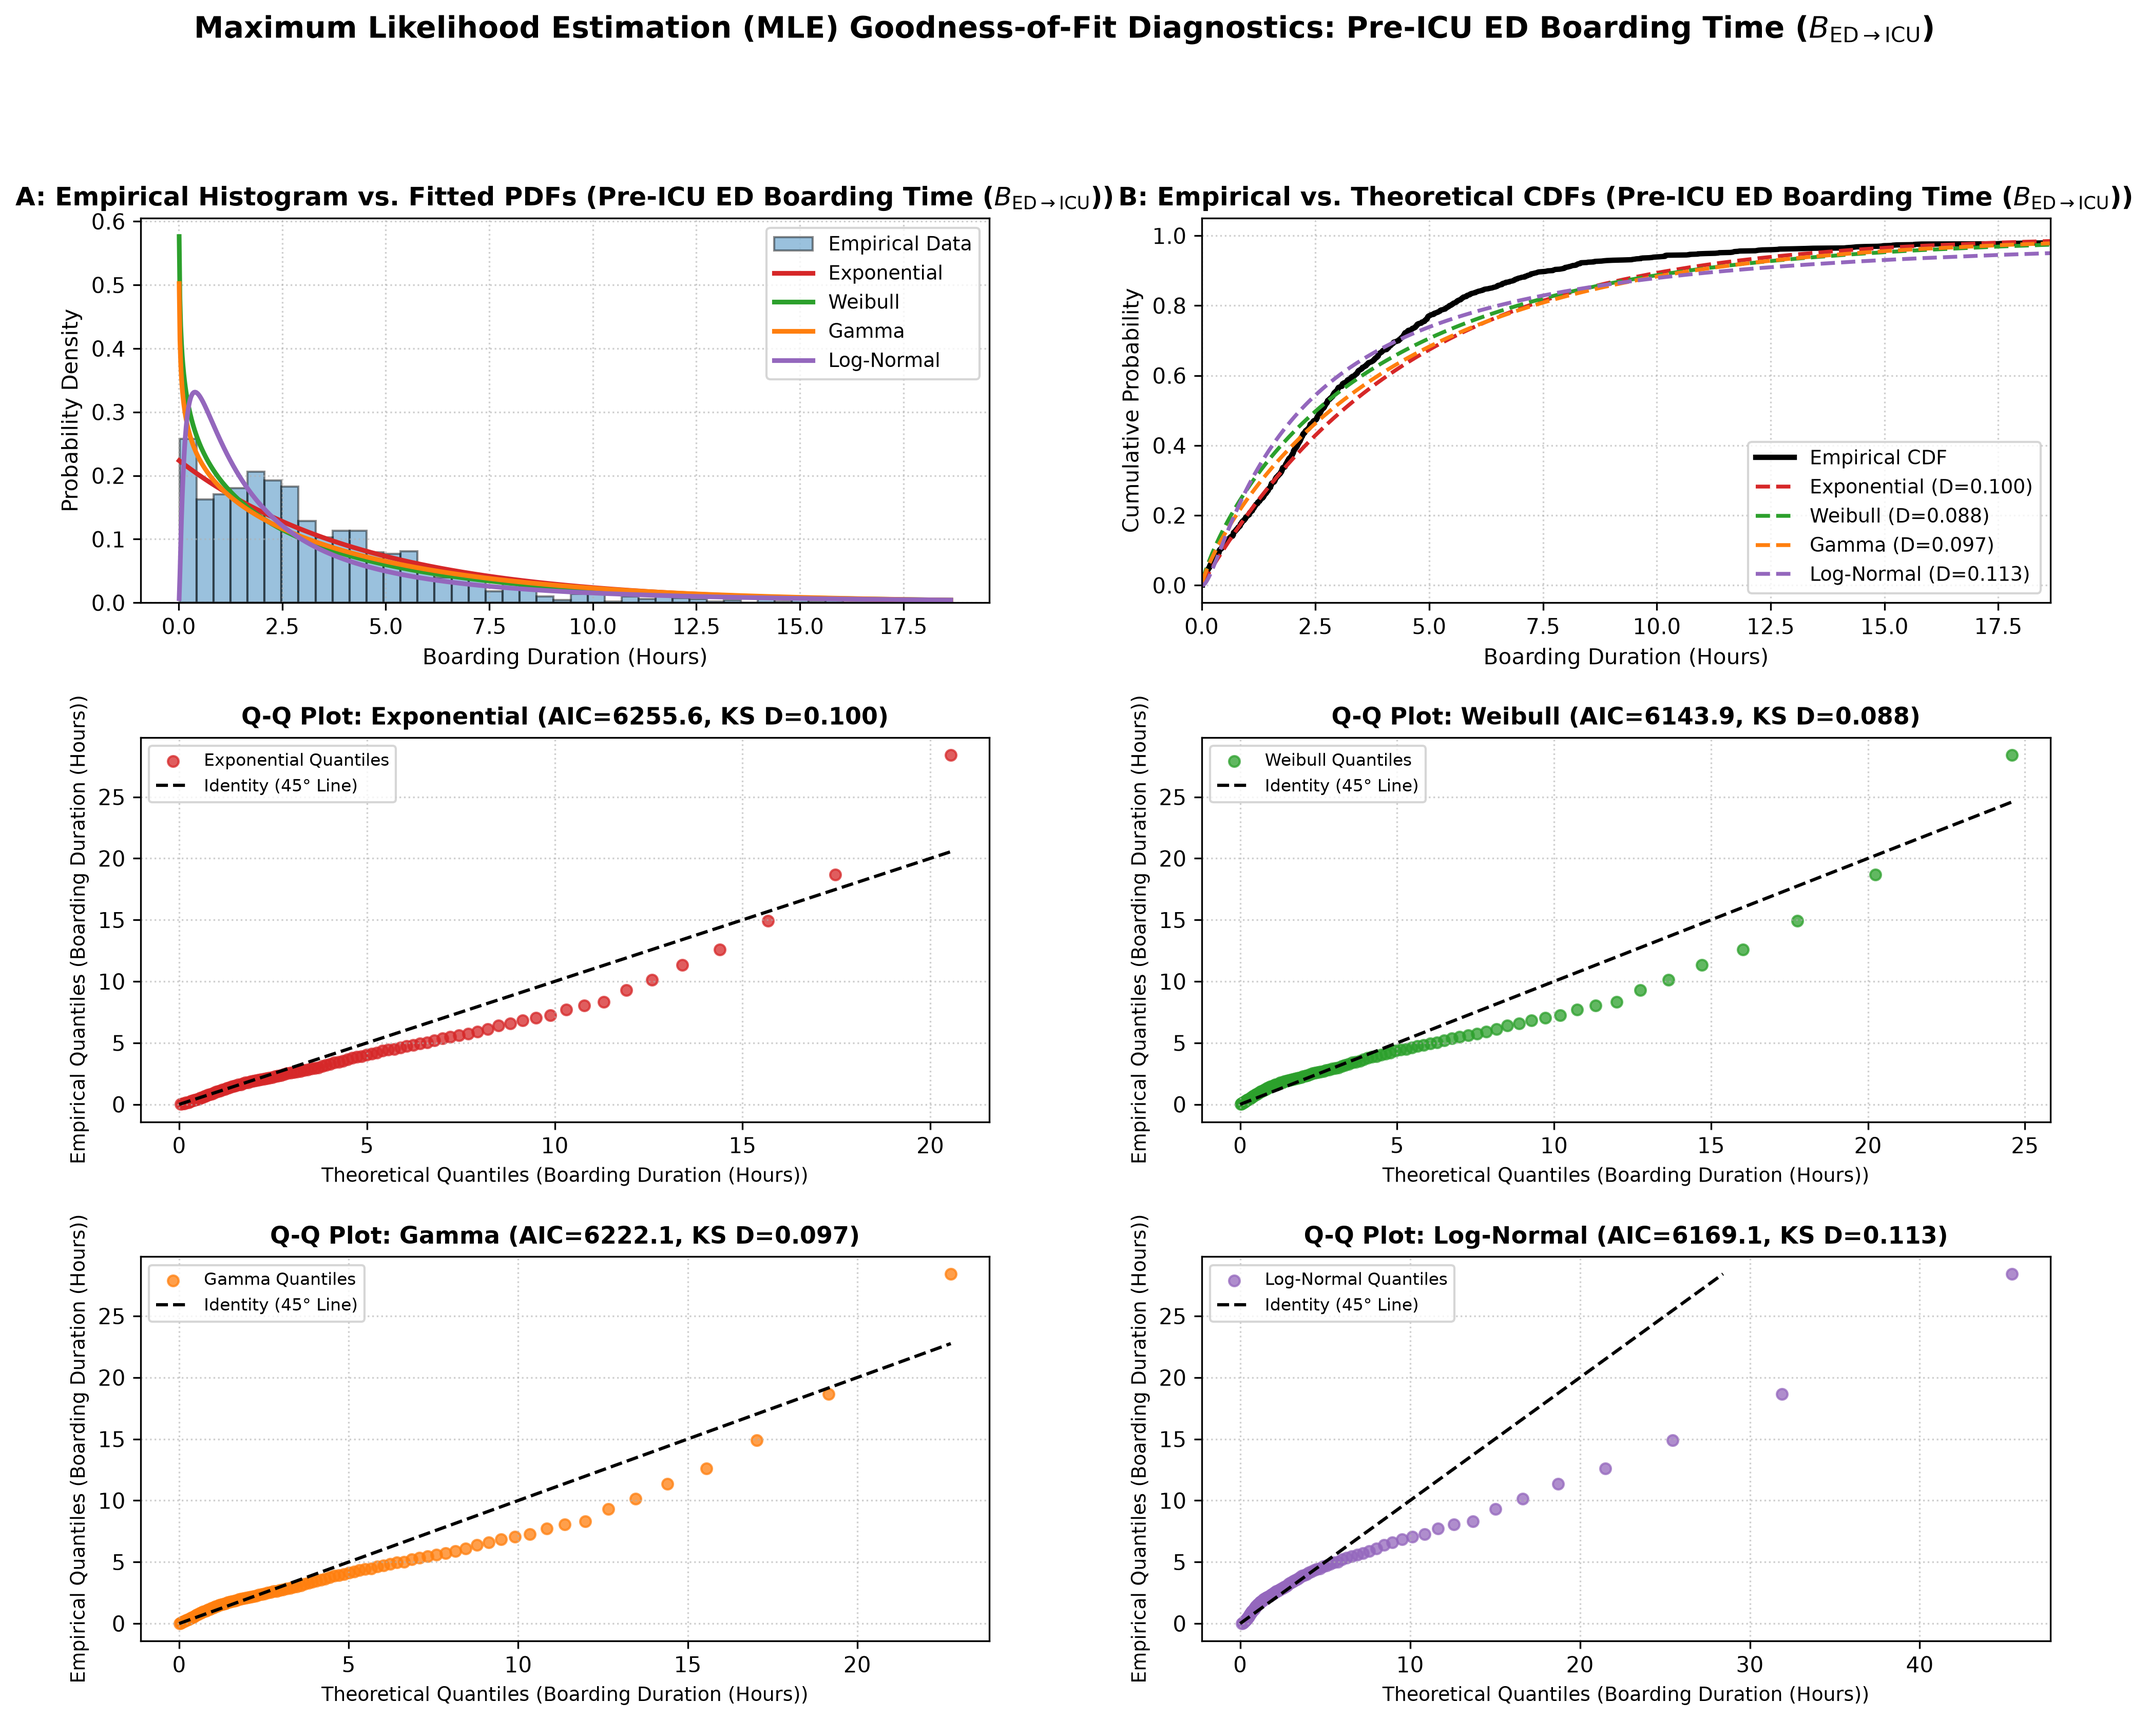
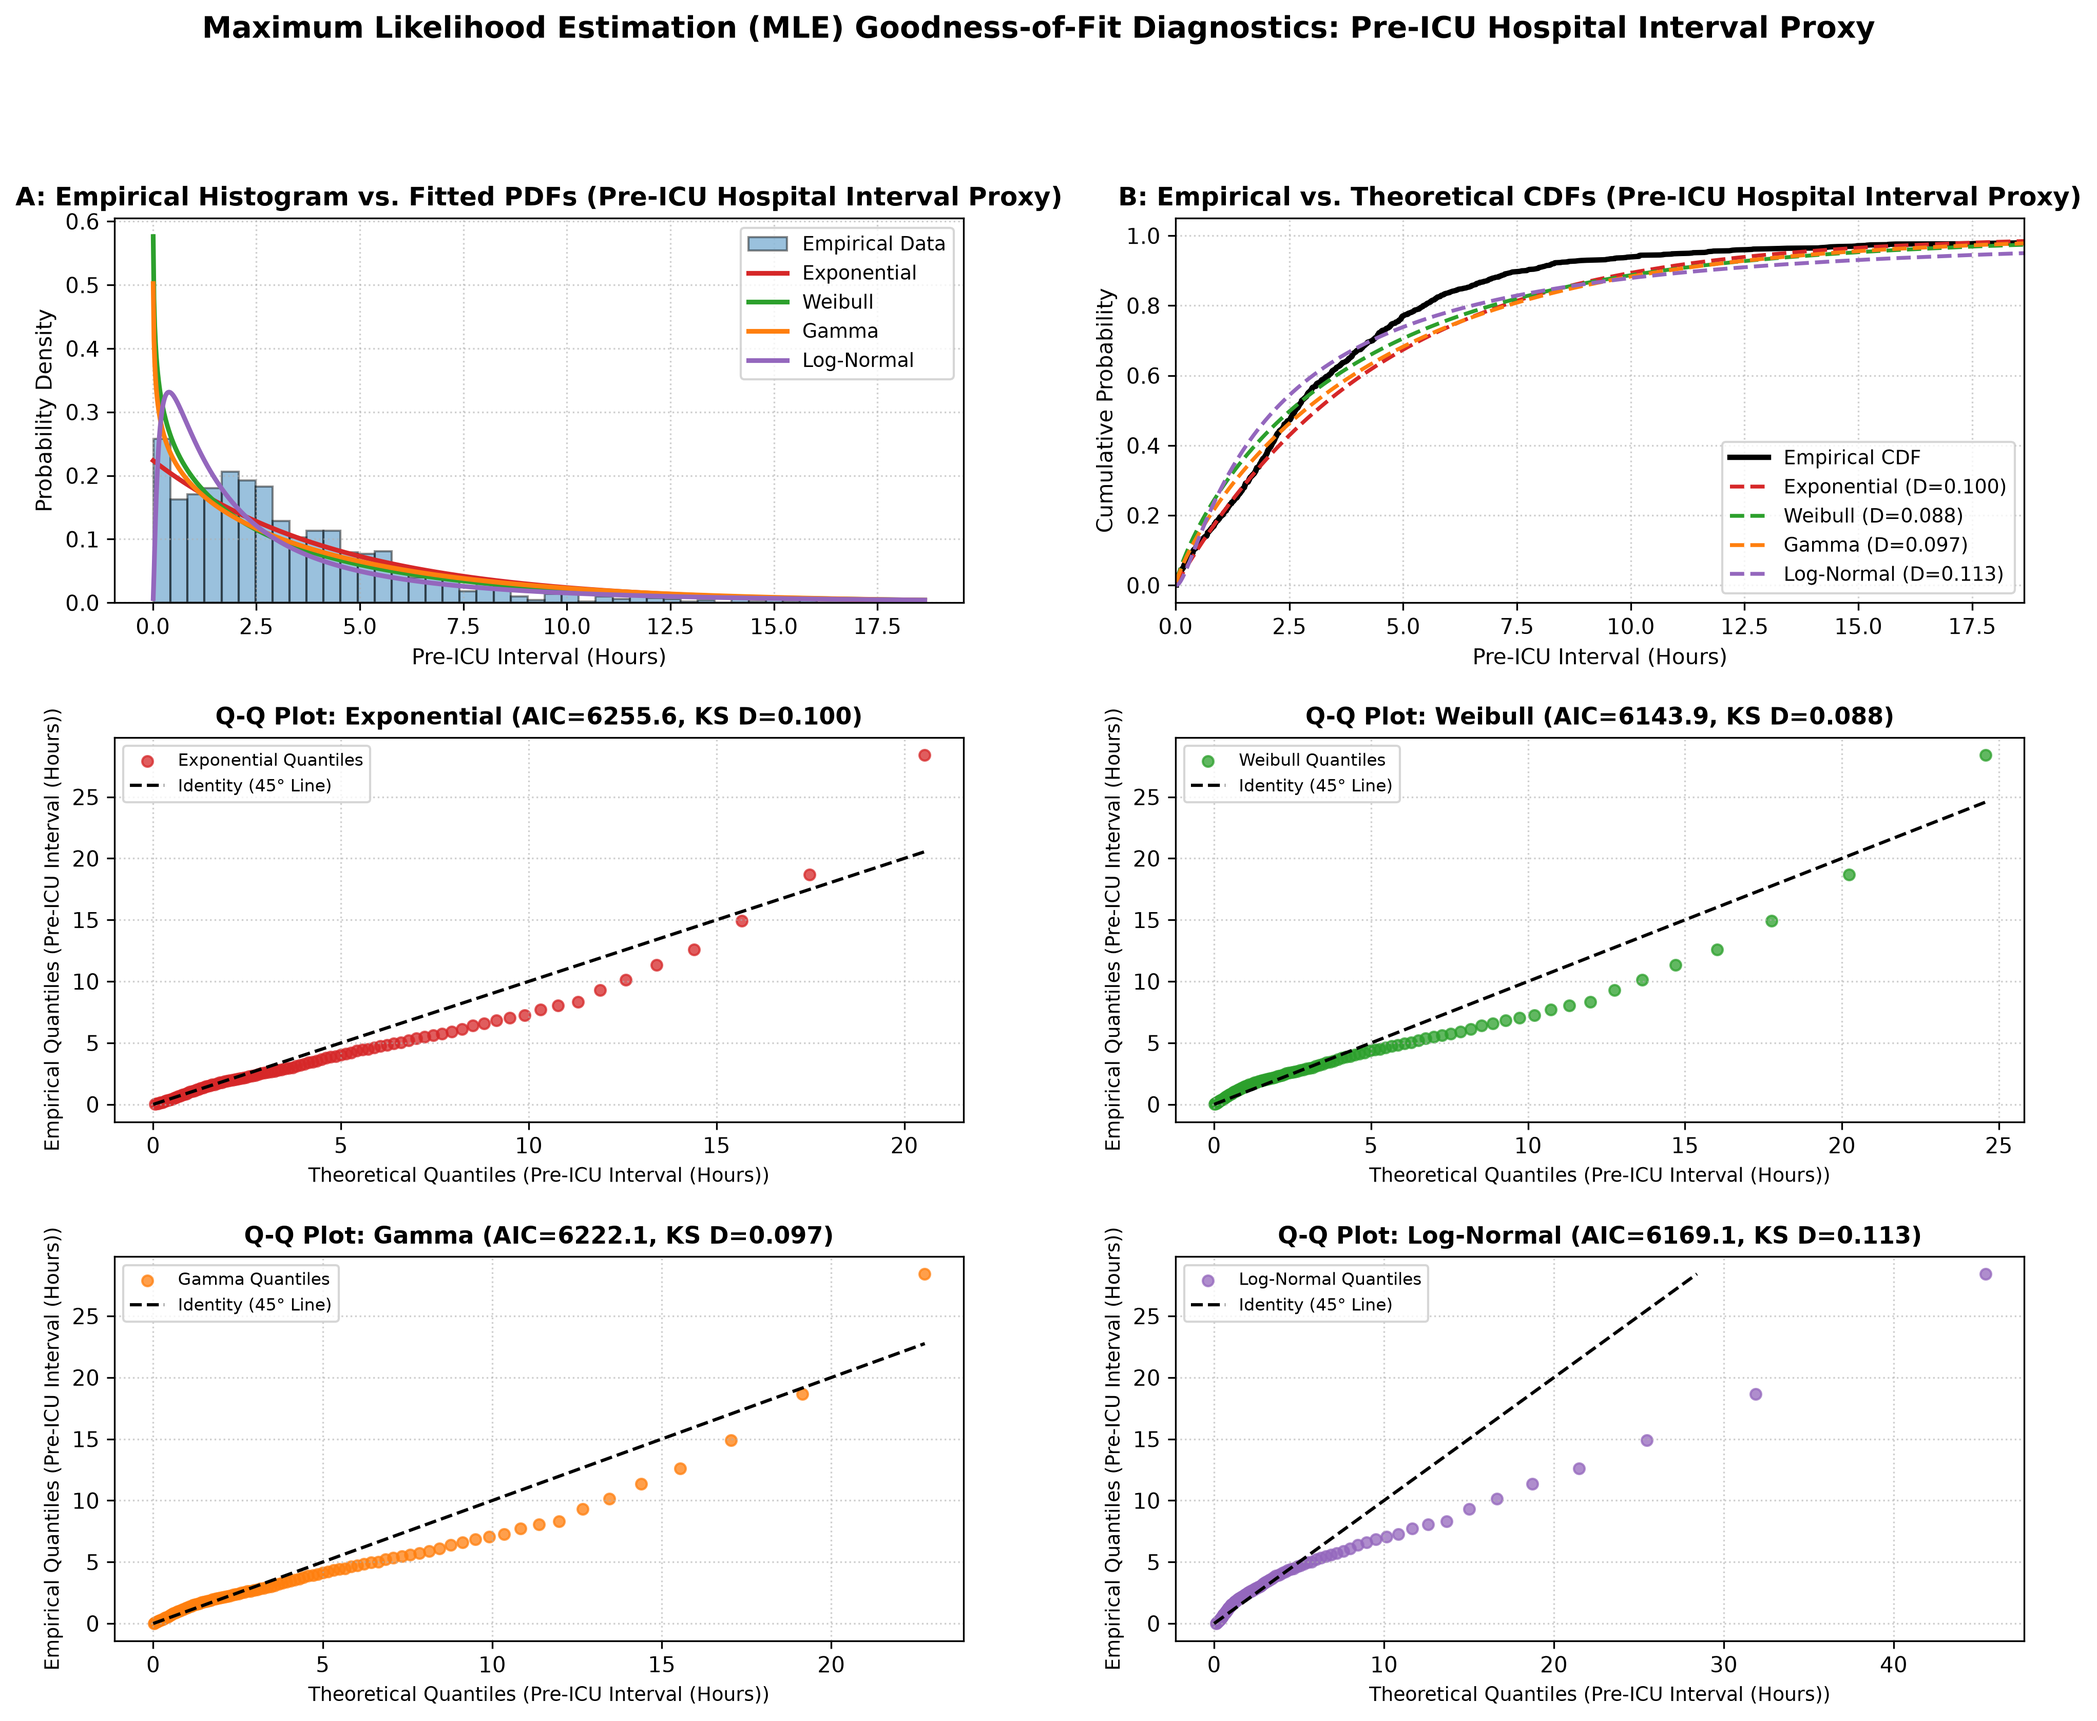
chore: update partner repo output plot binaries

diff --git a/src/simulation.py b/src/simulation.py
@@ -6,7 +6,6 @@ Validates empirical metrics against theoretical M/M/c and M/G/c formulas.
 import heapq
 from typing import Dict, Any, List, Optional
 import numpy as np
-import pandas as pd
 
 class HospitalSimulation:
     def __init__(
@@ -63,14 +62,19 @@ class HospitalSimulation:
         patient_counter = 1
         wait_times: List[float] = []
         total_times: List[float] = []
-        bed_occupancy_samples: List[tuple] = [] # (time, occupied_beds)
+        occupied_bed_days = 0.0
+        last_event_time = 0.0
+        max_queue_depth = 0
+        service_starts: List[float] = []
         
         while event_calendar:
             event_time, event_type, p_id = heapq.heappop(event_calendar)
-            current_time = event_time
-            
-            if current_time > self.sim_days:
+            if event_time > self.sim_days:
+                occupied_bed_days += occupied_beds * (self.sim_days - last_event_time)
                 break
+            occupied_bed_days += occupied_beds * (event_time - last_event_time)
+            current_time = event_time
+            last_event_time = event_time
                 
             if event_type == 0:
                 # ARRIVAL EVENT
@@ -83,6 +87,7 @@ class HospitalSimulation:
                 if occupied_beds < self.n_beds:
                     occupied_beds += 1
                     wait_times.append(0.0)
+                    service_starts.append(current_time)
                     service_duration = self._sample_service_time()
                     total_times.append(service_duration)
                     # Schedule departure
@@ -90,6 +95,7 @@ class HospitalSimulation:
                 else:
                     # All beds occupied -> join waiting queue
                     waiting_queue.append(current_time)
+                    max_queue_depth = max(max_queue_depth, len(waiting_queue))
                     
             elif event_type == 1:
                 # DEPARTURE EVENT
@@ -98,6 +104,7 @@ class HospitalSimulation:
                     arr_time = waiting_queue.pop(0)
                     w_q = current_time - arr_time
                     wait_times.append(w_q)
+                    service_starts.append(current_time)
                     service_duration = self._sample_service_time()
                     total_times.append(w_q + service_duration)
                     # Schedule departure
@@ -105,23 +112,18 @@ class HospitalSimulation:
                 else:
                     occupied_beds -= 1
                     
-            bed_occupancy_samples.append((current_time, occupied_beds))
-            
-        # Compute empirical statistics (ignoring initial warmup 10% to achieve steady state)
-        warmup_cutoff = int(len(wait_times) * 0.15) if len(wait_times) > 100 else 0
-        steady_waits = wait_times[warmup_cutoff:]
-        steady_totals = total_times[warmup_cutoff:]
+        # Use a fixed time warm-up; dropping a fraction of completed patients
+        # creates a demand-dependent cutoff and can bias wait estimates.
+        warmup_time = 0.15 * self.sim_days if len(wait_times) > 100 else 0.0
+        steady_waits = [w for t, w in zip(service_starts, wait_times) if t >= warmup_time]
+        steady_totals = [s for t, s in zip(service_starts, total_times) if t >= warmup_time]
         
         mean_wait_q = float(np.mean(steady_waits)) if steady_waits else 0.0
         mean_total_time = float(np.mean(steady_totals)) if steady_totals else 0.0
         delayed_ratio = float(np.mean(np.array(steady_waits) > 0.001)) if steady_waits else 0.0
         
-        # Time-weighted average occupied beds
-        if bed_occupancy_samples:
-            df_occ = pd.DataFrame(bed_occupancy_samples, columns=["time", "beds"])
-            mean_occupied = float(df_occ["beds"].mean())
-        else:
-            mean_occupied = 0.0
+        # Integrate occupancy over calendar time, including the last interval.
+        mean_occupied = occupied_bed_days / self.sim_days
             
         utilization = mean_occupied / self.n_beds
         
@@ -133,5 +135,5 @@ class HospitalSimulation:
             "empirical_prob_delay": round(delayed_ratio, 4),
             "empirical_mean_occupied_beds": round(mean_occupied, 2),
             "empirical_bed_utilization": round(utilization, 4),
-            "max_queue_depth": len(waiting_queue)
+            "max_queue_depth": max_queue_depth
         }
